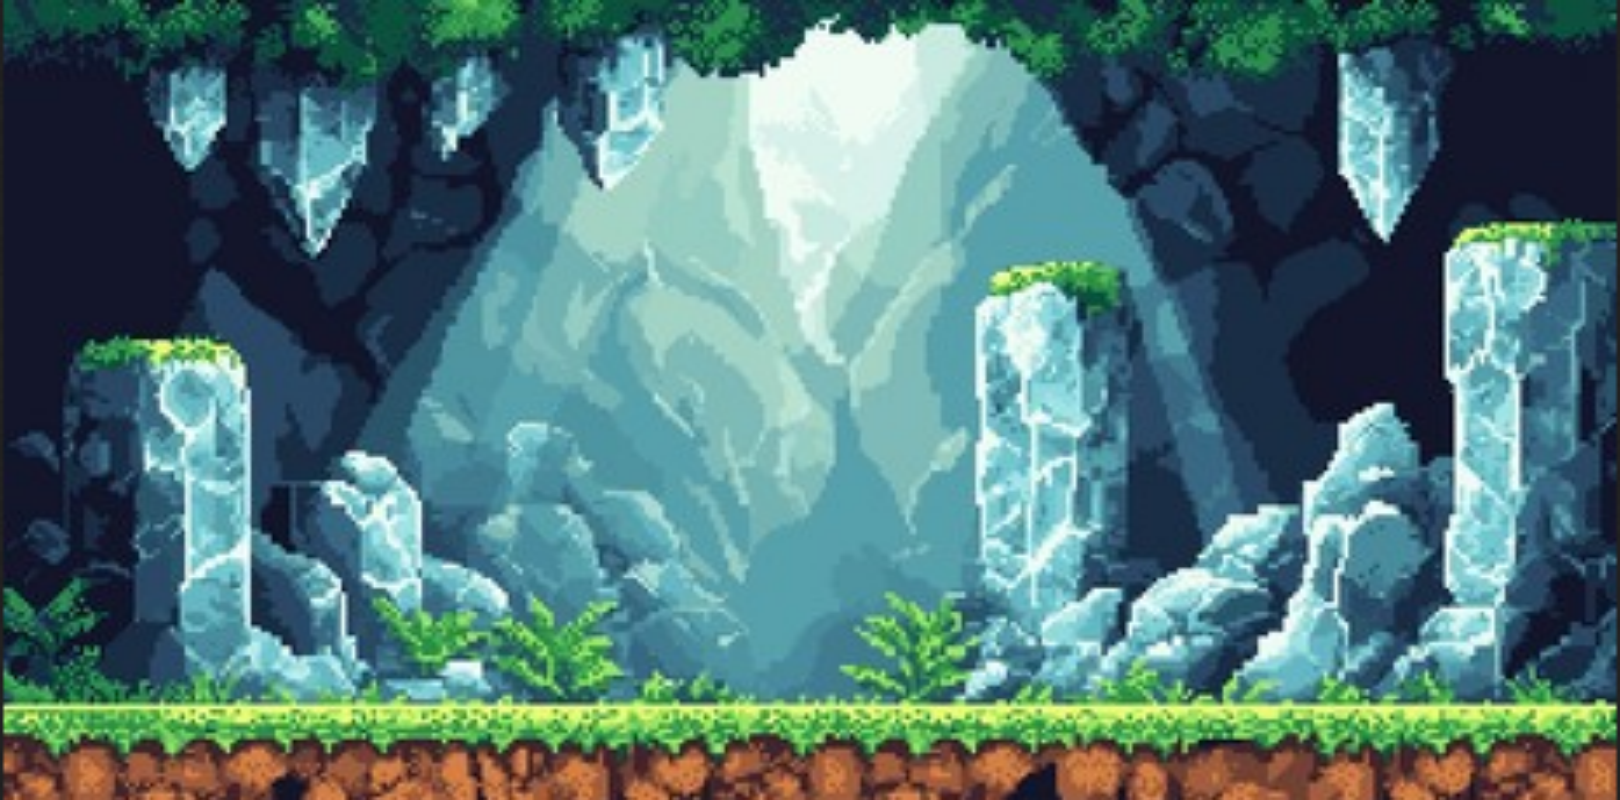
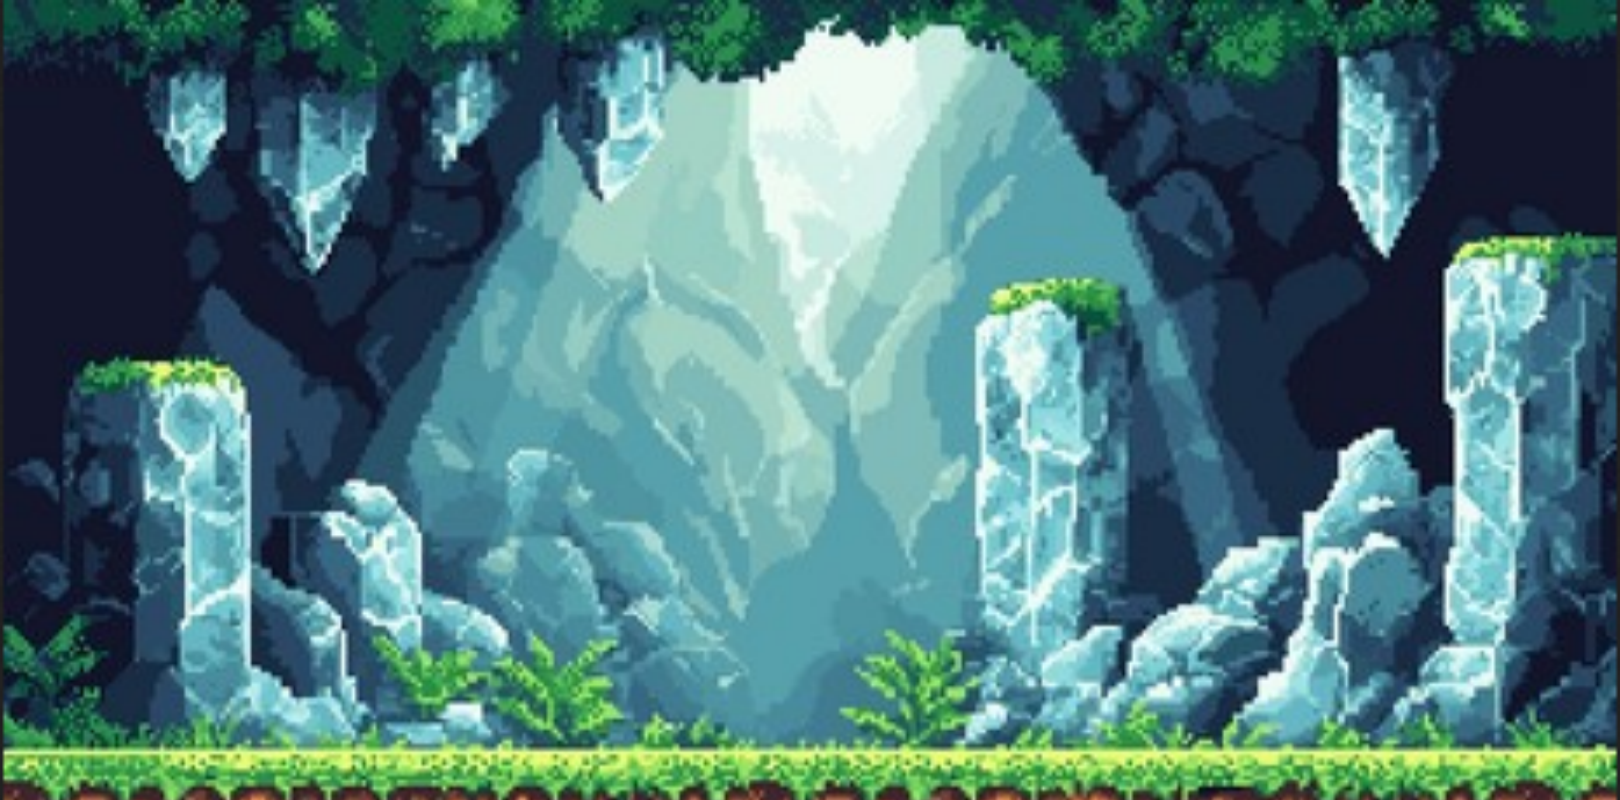
Se añadieron charcos

diff --git a/src/load.c b/src/load.c
@@ -380,19 +380,22 @@ Mapa leer_mapa(Natural nro_nivel/*, Natural* nro_filas, Natural* nro_columnas*/)
 
 
 /**
- * Función que dibuja el mapa en la ventana.
+ * @brief Función que dibuja el mapa en la ventana.
  * @param mapa Es el mapa que se desea dibujar.
+ * @param recursos Es el puntero a la estructura recursos del juego (que contiene lo esencial).
+ * @param cambio_estado_procesado Es un puntero que detecta un cambio de estado en la puerta o la palanca.
+ * @param iteracion Es la iteración actual del juego.
  */
 Procedure dibujar_mapa(Mapa mapa, Recursos* recursos, bool* cambio_estado_procesado, Natural iteracion)
 {
     Natural i=0, j=0, k=0;
-    Natural id_enemigo = 0, id_espina = 0, id_pocion = 0, id_municion = 0, id_pocion_rango_bala = 0;
+    Natural id_enemigo = 0, id_espina = 0, id_charco = 0, id_pocion = 0, id_municion = 0, id_pocion_rango_bala = 0;
     Entero flag = 0;
     Personaje* woofson = &recursos->pje_principal;
     Imagen bloque_cafe = recursos->bloques[0];
     Imagen bloque_plateado = recursos->bloques[1];
     bool aux = false;
-    float ancho_espina, alto_espina, x1, y1, x2, y2, dy, dx;
+    float ancho_espina, alto_espina, x1, y1, x2, y2, dy=0, dx=0;
     float ancho_esc, alto_esc;
     float alto_enemigo;
     
@@ -422,7 +425,71 @@ Procedure dibujar_mapa(Mapa mapa, Recursos* recursos, bool* cambio_estado_proces
                 }
             }
 
-            else if (mapa.mapa[i][j] == ESPINA)
+            else if (mapa.mapa[i][j] == PUERTA)
+            {
+                if (recursos->palanca.estado == DESACTIVADA)
+                {
+                    recursos->puerta.imagen = recursos->puertas[CERRADA];
+                    recursos->puerta.estado = CERRADA;
+                }
+
+                else
+                {
+                    recursos->puerta.imagen = recursos->puertas[ABIERTA];
+                    recursos->puerta.estado = ABIERTA;
+                }
+
+                recursos->puerta.alto = al_get_bitmap_height(recursos->puerta.imagen);
+                recursos->puerta.ancho = al_get_bitmap_width(recursos->puerta.imagen);
+                recursos->puerta.posicion = (Vector) {x1, y2-recursos->puerta.alto+15};
+                al_draw_bitmap(recursos->puerta.imagen, recursos->puerta.posicion.x, recursos->puerta.posicion.y, j>mapa.nro_columnas/2 ? 0 : ALLEGRO_FLIP_HORIZONTAL);
+            }
+
+            else if (mapa.mapa[i][j] == PALANCA)
+            {
+                recursos->palanca.imagen = recursos->palancas[DESACTIVADA];
+                recursos->palanca.posicion = (Vector) {x1, y2-recursos->palanca.alto};
+                recursos->palanca.alto = al_get_bitmap_height(recursos->palanca.imagen);
+                recursos->palanca.ancho = al_get_bitmap_width(recursos->palanca.imagen);
+
+                if (woofson->posicion.x + woofson->ancho >= recursos->palanca.posicion.x && woofson->posicion.y + woofson->alto >= recursos->palanca.posicion.y &&
+                    woofson->posicion.x < recursos->palanca.posicion.x + recursos->palanca.ancho && woofson->posicion.y < recursos->palanca.posicion.y + recursos->palanca.alto)
+                {
+                    if (teclas[ALLEGRO_KEY_E])
+                    {
+                        if (!(*cambio_estado_procesado))
+                        {
+                            *cambio_estado_procesado = true;
+                            recursos->palanca.estado = recursos->palanca.estado == ACTIVADA ? DESACTIVADA : ACTIVADA;
+                            recursos->palanca.imagen = recursos->palancas[recursos->palanca.estado];
+                            recursos->palanca.alto = al_get_bitmap_height(recursos->palanca.imagen);
+                            recursos->palanca.ancho = al_get_bitmap_width(recursos->palanca.imagen);
+                        }
+                    }
+
+                    else
+                    {
+                        *cambio_estado_procesado = false;
+                    }
+                }
+
+                recursos->palanca.imagen = recursos->palancas[recursos->palanca.estado];
+                al_draw_bitmap(recursos->palanca.imagen, recursos->palanca.posicion.x, recursos->palanca.posicion.y, 0);
+            }
+        }
+    }
+
+    for (i=0; i<mapa.nro_filas; i++)
+    {
+        for (j=0; j<mapa.nro_columnas; j++)
+        {
+            x1 = j*mapa.ancho_bloque;
+            y1 = i*mapa.alto_bloque;
+
+            x2 = (j+1)*mapa.ancho_bloque;
+            y2 = (i+1)*mapa.alto_bloque;
+
+            if (mapa.mapa[i][j] == ESPINA)
             {
                 if (id_espina < MAX_ESPINAS)
                 {
@@ -607,61 +674,23 @@ Procedure dibujar_mapa(Mapa mapa, Recursos* recursos, bool* cambio_estado_proces
                 id_enemigo++;
             }
 
-            else if (mapa.mapa[i][j] == PUERTA)
-            {
-                if (recursos->palanca.estado == DESACTIVADA)
-                {
-                    recursos->puerta.imagen = recursos->puertas[CERRADA];
-                    recursos->puerta.estado = CERRADA;
-                }
-
-                else
-                {
-                    recursos->puerta.imagen = recursos->puertas[ABIERTA];
-                    recursos->puerta.estado = ABIERTA;
-                }
-
-                recursos->puerta.alto = al_get_bitmap_height(recursos->puerta.imagen);
-                recursos->puerta.ancho = al_get_bitmap_width(recursos->puerta.imagen);
-                recursos->puerta.posicion = (Vector) {x1, y2-recursos->puerta.alto+15};
-                al_draw_bitmap(recursos->puerta.imagen, recursos->puerta.posicion.x, recursos->puerta.posicion.y, j>mapa.nro_columnas/2 ? 0 : ALLEGRO_FLIP_HORIZONTAL);
-            }
-
-            else if (mapa.mapa[i][j] == PALANCA)
-            {
-                recursos->palanca.imagen = recursos->palancas[DESACTIVADA];
-                recursos->palanca.posicion = (Vector) {x1, y2-recursos->palanca.alto};
-                recursos->palanca.alto = al_get_bitmap_height(recursos->palanca.imagen);
-                recursos->palanca.ancho = al_get_bitmap_width(recursos->palanca.imagen);
-
-                if (woofson->posicion.x + woofson->ancho >= recursos->palanca.posicion.x && woofson->posicion.y + woofson->alto >= recursos->palanca.posicion.y &&
-                    woofson->posicion.x < recursos->palanca.posicion.x + recursos->palanca.ancho && woofson->posicion.y < recursos->palanca.posicion.y + recursos->palanca.alto)
-                {
-                    if (teclas[ALLEGRO_KEY_E])
-                    {
-                        if (!(*cambio_estado_procesado))
-                        {
-                            *cambio_estado_procesado = true;
-                            recursos->palanca.estado = recursos->palanca.estado == ACTIVADA ? DESACTIVADA : ACTIVADA;
-                            recursos->palanca.imagen = recursos->palancas[recursos->palanca.estado];
-                            recursos->palanca.alto = al_get_bitmap_height(recursos->palanca.imagen);
-                            recursos->palanca.ancho = al_get_bitmap_width(recursos->palanca.imagen);
-                        }
-                    }
-
-                    else
-                    {
-                        *cambio_estado_procesado = false;
-                    }
-                }
-
-                recursos->palanca.imagen = recursos->palancas[recursos->palanca.estado];
-                al_draw_bitmap(recursos->palanca.imagen, recursos->palanca.posicion.x, recursos->palanca.posicion.y, 0);
-            }
-
             else if (mapa.mapa[i][j] == CHARCO)
             {
+                if (i == mapa.nro_filas-1 || (i < mapa.nro_filas-1 && (mapa.mapa[i+1][j] == BLOQUE || mapa.mapa[i][j] == BLOQUE_RAYO)))
+                {
+                    if (id_charco < MAX_CHARCOS)
+                    {
+                        recursos->charcos[id_charco].imagen = recursos->charco;
+                        recursos->charcos[id_charco].activo = true;
+                        recursos->charcos[id_charco].alto = al_get_bitmap_height(recursos->charco);
+                        recursos->charcos[id_charco].ancho = al_get_bitmap_width(recursos->charco);
+                        recursos->charcos[id_charco].posicion = (Vector) {x1, y2};
+                        al_draw_tinted_scaled_bitmap(recursos->charco, VERDE, 0, 0, recursos->charcos[id_charco].ancho, recursos->charcos[id_charco].alto,
+                                                     recursos->charcos[id_charco].posicion.x, recursos->charcos[id_charco].posicion.y, mapa.ancho_bloque, 2*recursos->charcos[id_charco].alto, 0);    
+                    }
 
+                    id_charco++;
+                }
             }
 
             else if (mapa.mapa[i][j] == POCION)

diff --git a/src/menu.c b/src/menu.c
@@ -395,6 +395,11 @@ Procedure resetear_estado_juego(Recursos* recursos, Menu menu, Etapa* etapa_actu
         recursos->espinas[i].activa = false;
     }
 
+    for (i=0; i<MAX_CHARCOS; i++)
+    {
+        recursos->charcos[i].activo = false;
+    }
+
     *tiempo_en_nivel = 0;
 }
 
@@ -438,6 +443,7 @@ Procedure detener_efectos_de_sonido(Recursos* recursos)
 Procedure redirigir_menu(Recursos* recursos, Natural opcion_clickeada, Etapa* etapa_actual, Natural* nivel_actual, Natural* ranking_a_mostrar, float* tiempo_en_nivel)//, Natural* ranking_a_mostrar)
 {
     Menu menu_vacio = {0};
+    Natural nivel_anterior = 0;
     char nombre[LARGO] = {'\0'};  // Para entrar al ranking
 
     if (*etapa_actual == MENU_PRINCIPAL)
@@ -585,6 +591,8 @@ Procedure redirigir_menu(Recursos* recursos, Natural opcion_clickeada, Etapa* et
             {
                 if (opcion_clickeada == 2)
                 {
+                    nivel_anterior = *nivel_actual;  
+                    
                     if (*nivel_actual != NRO_NIVELES)
                     {
                         resetear_estado_juego(recursos, menu_vacio, etapa_actual, (*nivel_actual-1)+1, tiempo_en_nivel);
@@ -602,14 +610,12 @@ Procedure redirigir_menu(Recursos* recursos, Natural opcion_clickeada, Etapa* et
                         recursos->pje_principal.bala_recargable = true;
                     }
 
-                    else
+                    if (nivel_anterior != NRO_NIVELES)
                     {
-                        if (*nivel_actual != NRO_NIVELES)
-                        {
-                            al_set_sample_instance_position(recursos->musica_actual->instancia, 0); // La reinicia
-                            al_play_sample_instance(recursos->musica_actual->instancia);  
-                        }
+                        al_set_sample_instance_position(recursos->musica_actual->instancia, 0); // La reinicia
+                        al_play_sample_instance(recursos->musica_actual->instancia);
                     }
+                   
                 }
             }
         }

diff --git a/incs/structs.h b/incs/structs.h
@@ -23,6 +23,7 @@ typedef struct efectoSonido EfectoSonido;
 typedef struct rayo Rayo;
 typedef struct regresionLineal RegresionLineal;
 typedef struct espina Espina;
+typedef struct charco Charco;
 typedef struct palanca Palanca;
 typedef struct puerta Puerta;
 typedef struct pocion Pocion;
@@ -79,17 +80,6 @@ struct bala
     bool activa;
     bool disponible;
     float frames_para_disponibilidad;  // Este campo solo cobra sentido si es que las balas son recargables con el tiempo (personaje->bala_recargable == true)
-};
-
-union formaAtaque
-{
-    Bala balas[10];
-    // Otra para cuerpo a cuerpo
-};
-
-struct arma
-{
-    FormaAtaque ataque;
 };
 
 struct fuego
@@ -212,6 +202,15 @@ struct espina
     char direccion_espina;  // Si la espina es 'I' (inferior: está abajo y hay que saltarla), 'S' (superior), 'L' (izquierda: left) o 'R' (derecha: right)
 };
 
+struct charco
+{
+    Imagen imagen;
+    Vector posicion;
+    float alto;
+    float ancho;
+    bool activo;
+};
+
 struct palanca
 {
     Vector posicion;
@@ -280,10 +279,12 @@ struct recursos
     Imagen vida;
     Imagen bloques[NRO_BLOQUES];
     Imagen espina;
+    Espina espinas[MAX_ESPINAS];
     Rayo rayos[NRO_NIVELES][MAX_RAYOS];  // Rayos por nivel
     Natural cantidad_rayos[NRO_NIVELES];
     EfectoSonido* sonido_rayo;  // Efecto de sonido del rayo
-    Espina espinas[MAX_ESPINAS];
+    Imagen charco;
+    Charco charcos[MAX_CHARCOS];
     Imagen fondos[NRO_NIVELES];
     Imagen fondo_menu_principal;
     Imagen fondo_menu_niveles;

diff --git a/src/traps.c b/src/traps.c
@@ -458,3 +458,27 @@ Procedure detectar_si_personaje_en_zona_de_espina(Personaje* personaje, Espina e
         }
     }
 }
+
+
+Procedure detectar_si_personaje_en_zona_de_veneno(Personaje* personaje, Charco charcos[MAX_CHARCOS])
+{
+    Natural i;
+
+    for (i=0; i<MAX_CHARCOS; i++)
+    {
+        if (charcos[i].activo)
+        {
+            if (personaje->posicion.x + personaje->ancho > charcos[i].posicion.x && personaje->posicion.x < charcos[i].posicion.x + charcos[i].ancho)
+            {
+                if (personaje->posicion.y + personaje->alto == charcos[i].posicion.y)
+                {
+                    if (!personaje->danhado)
+                    {
+                        personaje->danhado = true;
+                        aplicar_danho(personaje, 100);
+                    }
+                }
+            }
+        }
+    }
+}

diff --git a/src/woofson.c b/src/woofson.c
@@ -76,6 +76,7 @@ int main()
                         actualizar_rayos(recursos.rayos[nivel_actual - 1], recursos.cantidad_rayos[nivel_actual - 1], recursos.pje_principal, recursos.mapas[nivel_actual - 1]);
                         detectar_si_personaje_en_zona_de_rayo(&recursos.pje_principal, recursos.rayos[nivel_actual - 1]);
                         detectar_si_personaje_en_zona_de_espina(&recursos.pje_principal, recursos.espinas);
+                        detectar_si_personaje_en_zona_de_veneno(&recursos.pje_principal, recursos.charcos);
                         efectuar_disparo_de_enemigos(recursos.enemigos, &recursos.pje_principal, recursos.mapas[nivel_actual - 1], nivel_actual, recursos.fuego);
                         determinar_victoria_woofson(&recursos.pje_principal, recursos.enemigos, recursos.puerta, &etapa_juego);
 

diff --git a/src/allegro.c b/src/allegro.c
@@ -184,6 +184,14 @@ bool crear_recursos(Recursos* R)
         printf("Error al cargar la imagen de la espina.\n");
         return false;
     }
+
+    R->charco = al_load_bitmap("assets/images/charco.png");
+
+    if (!R->charco)
+    {
+        printf("Error al cargar la imagen del charco.\n");
+        return false;
+    }
     
     R->pje_principal.imagen_modo_muerte = al_load_bitmap("assets/images/muerte.png");
 
@@ -643,6 +651,12 @@ Procedure finalizar_allegro(Recursos* R)
     }
     
     destruir_todos_los_frames(R->frames);
+
+    if (R->charco != NULL)
+    {
+        al_destroy_bitmap(R->charco);
+        R->charco = NULL;
+    }
 
     if (R->espina != NULL)
     {

diff --git a/incs/traps.h b/incs/traps.h
@@ -19,6 +19,7 @@ bool personaje_activa_rayo(Rayo rayo, Personaje personaje, Mapa);
 Procedure actualizar_rayo(Rayo*, Natural, Personaje, Mapa);
 Procedure actualizar_rayos(Rayo [MAX_RAYOS], Natural, Personaje, Mapa);
 Procedure detectar_si_personaje_en_zona_de_espina(Personaje* personaje, Espina espinas[MAX_ESPINAS]);
+Procedure detectar_si_personaje_en_zona_de_veneno(Personaje* personaje, Charco charcos[MAX_CHARCOS]);
 //bool hay_hitbox_con_espina(Personaje*, Mapa, Espina*);
 
 #endif // TRAPS_H

diff --git a/incs/macros.h b/incs/macros.h
@@ -24,6 +24,7 @@
 #define NRO_NIVELES 5
 #define MAX_DATOS 10
 #define MAX_ESPINAS 12
+#define MAX_CHARCOS 7
 #define MAX_POCIONES 2
 #define MAX_POCIONES_RANGO_BALA 3
 #define MAX_MUNICIONES 6
@@ -111,7 +112,7 @@
 // Macros para las espinas
 #define NRO_REGRESIONES 2
 #define FACTOR_ESPINA 0.5
-#define DANHO_ESPINA 17
+#define DANHO_ESPINA 63
 
 // Macro que define la cantidad de vidas que tendrá el personaje inicialmente
 #define VIDAS_INICIALES 3
